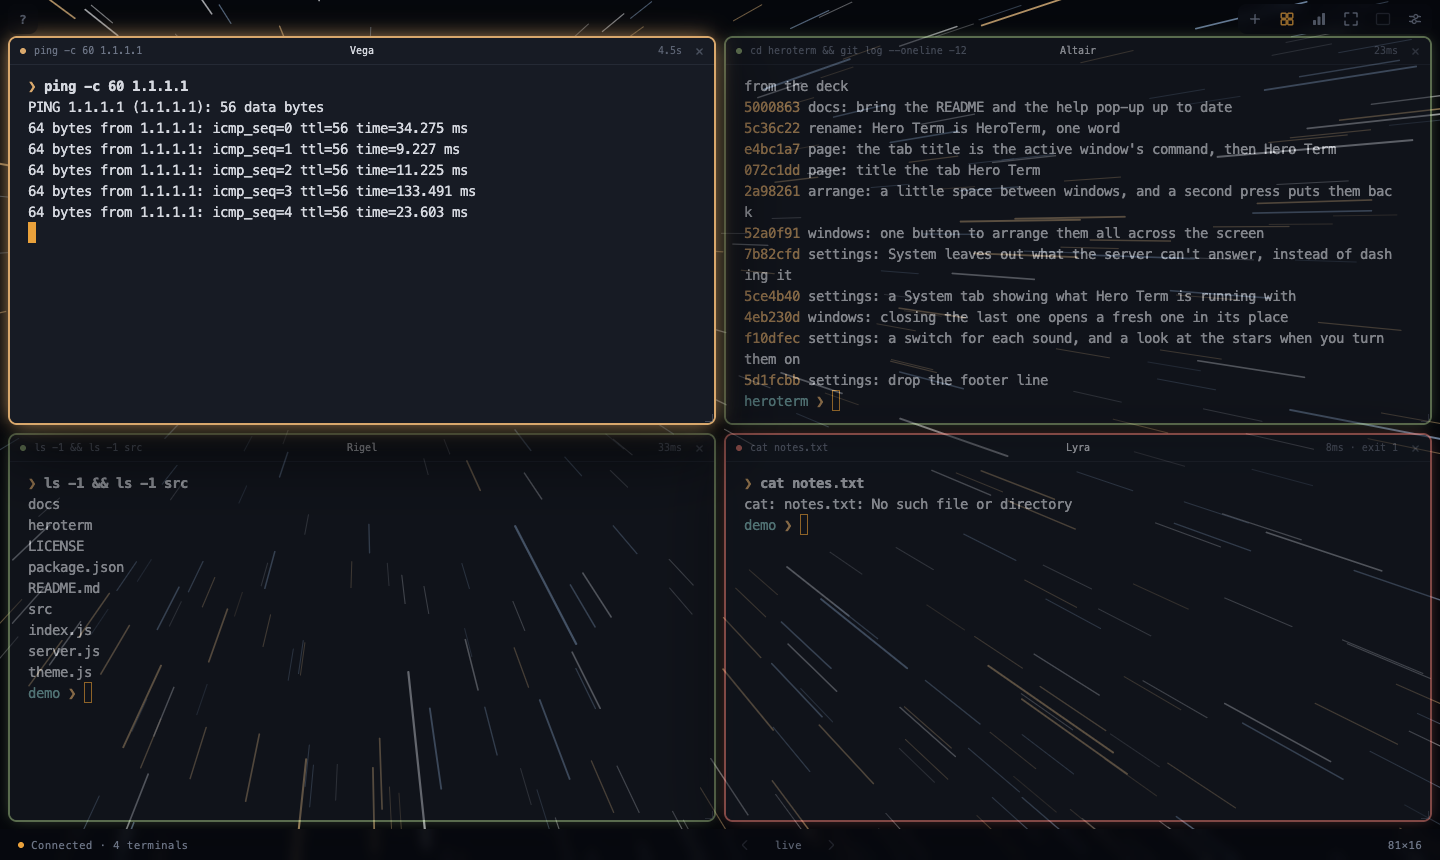
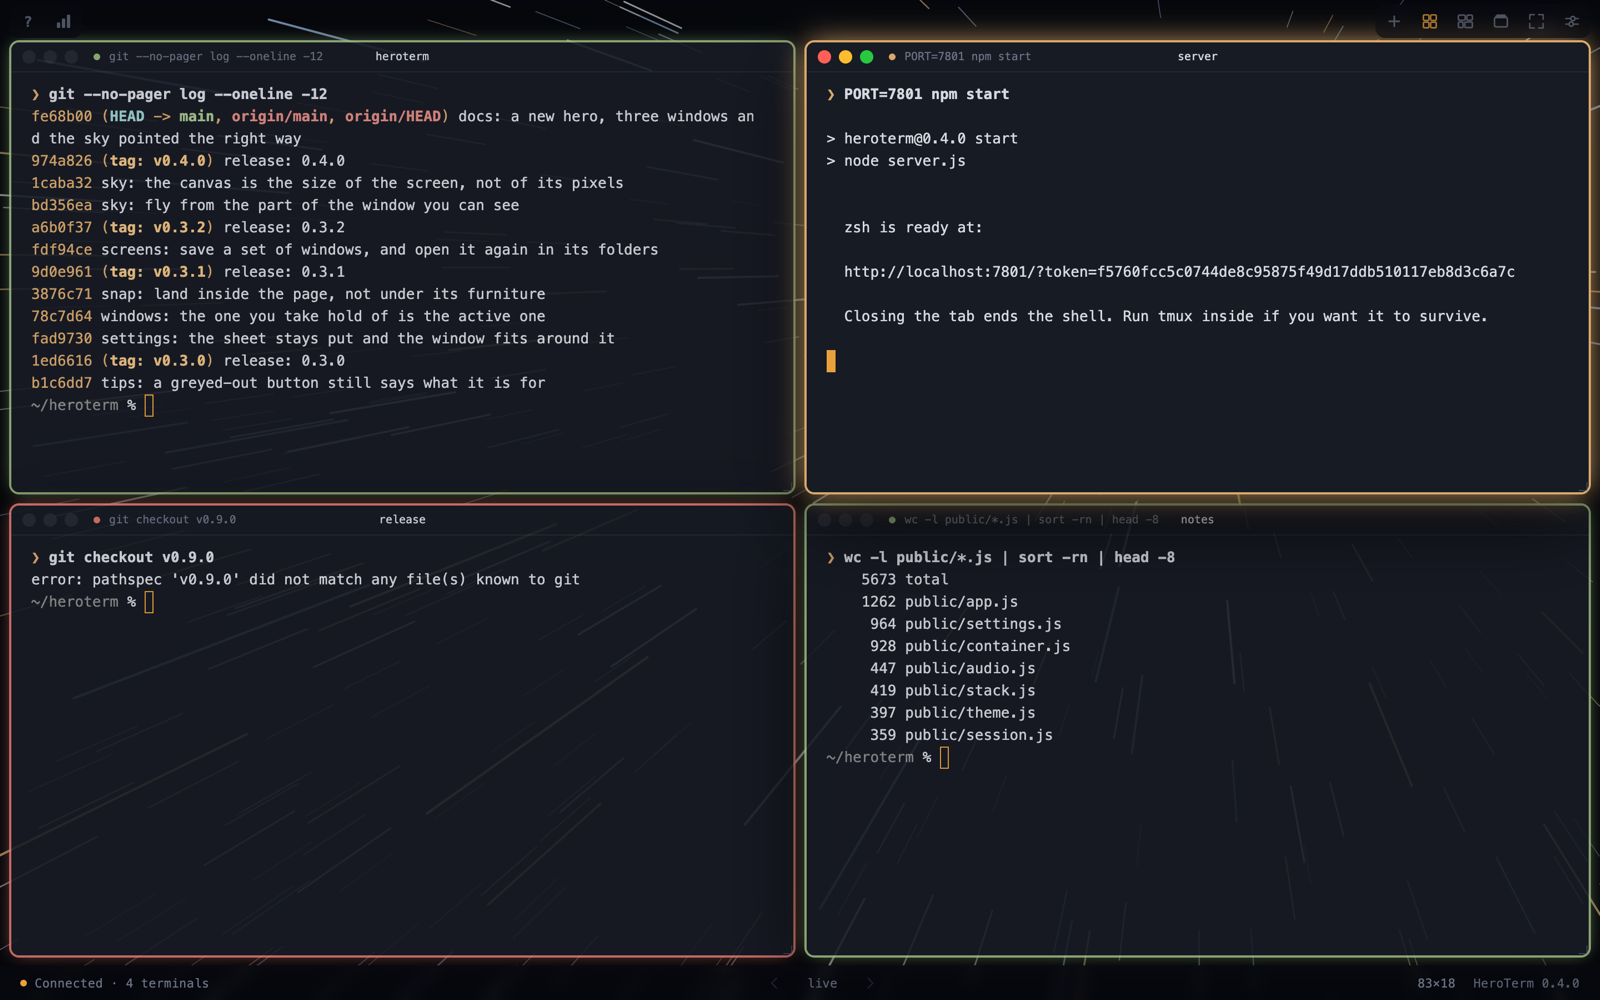
docs: the other three pictures, taken of what the thing is now
Arranging, the deck and settings were all shot before the toolbar lost a
button and gained two, before the settings sheet stopped taking its height
from the window beside it, and before the star field knew where the middle
of the screen was on a retina display.

Same staging as the hero: a clone of this repo, real commands, a prompt
with no name or machine in it, 2x for GitHub's render width. The settings
one shows the unfocused opacity at the theme's own 20%, since that is what
someone opening the panel would find.

diff --git a/README.md b/README.md
@@ -71,8 +71,8 @@ of them for a second and it says what it does.
 
 <table>
   <tr>
-    <td width="50%"><img src="https://raw.githubusercontent.com/yokeholy/HeroTerm/main/docs/arrange.png" alt="Four windows arranged across the screen: one running ping, one git log, one ls, one failed cat"></td>
-    <td width="50%"><img src="https://raw.githubusercontent.com/yokeholy/HeroTerm/main/docs/deck.png" alt="A window with the previous commands stacked behind it"></td>
+    <td width="50%"><img src="https://raw.githubusercontent.com/yokeholy/HeroTerm/main/docs/arrange.png" alt="Four windows tiled across the screen: a git log in green, a server still running in yellow, a failed git command in red, and a line count in green"></td>
+    <td width="50%"><img src="https://raw.githubusercontent.com/yokeholy/HeroTerm/main/docs/deck.png" alt="A window showing an earlier command, with the three commands run after it stacked above, and 2 back in the status bar"></td>
   </tr>
   <tr>
     <td align="center">▦ Arrange, and see every result at a glance</td>
@@ -94,7 +94,7 @@ of them for a second and it says what it does.
 
 ## 🎨 Make it yours
 
-![Settings beside the window they apply to](https://raw.githubusercontent.com/yokeholy/HeroTerm/main/docs/settings.png)
+![The settings sheet down the right-hand side, full height, with the window it is previewing fitted beside it](https://raw.githubusercontent.com/yokeholy/HeroTerm/main/docs/settings.png)
 
 - 🎨 **6 themes**, from deep-space blue to a paper light theme
 - 🔤 **Any installed font**, with terminal and interface sizes set separately
